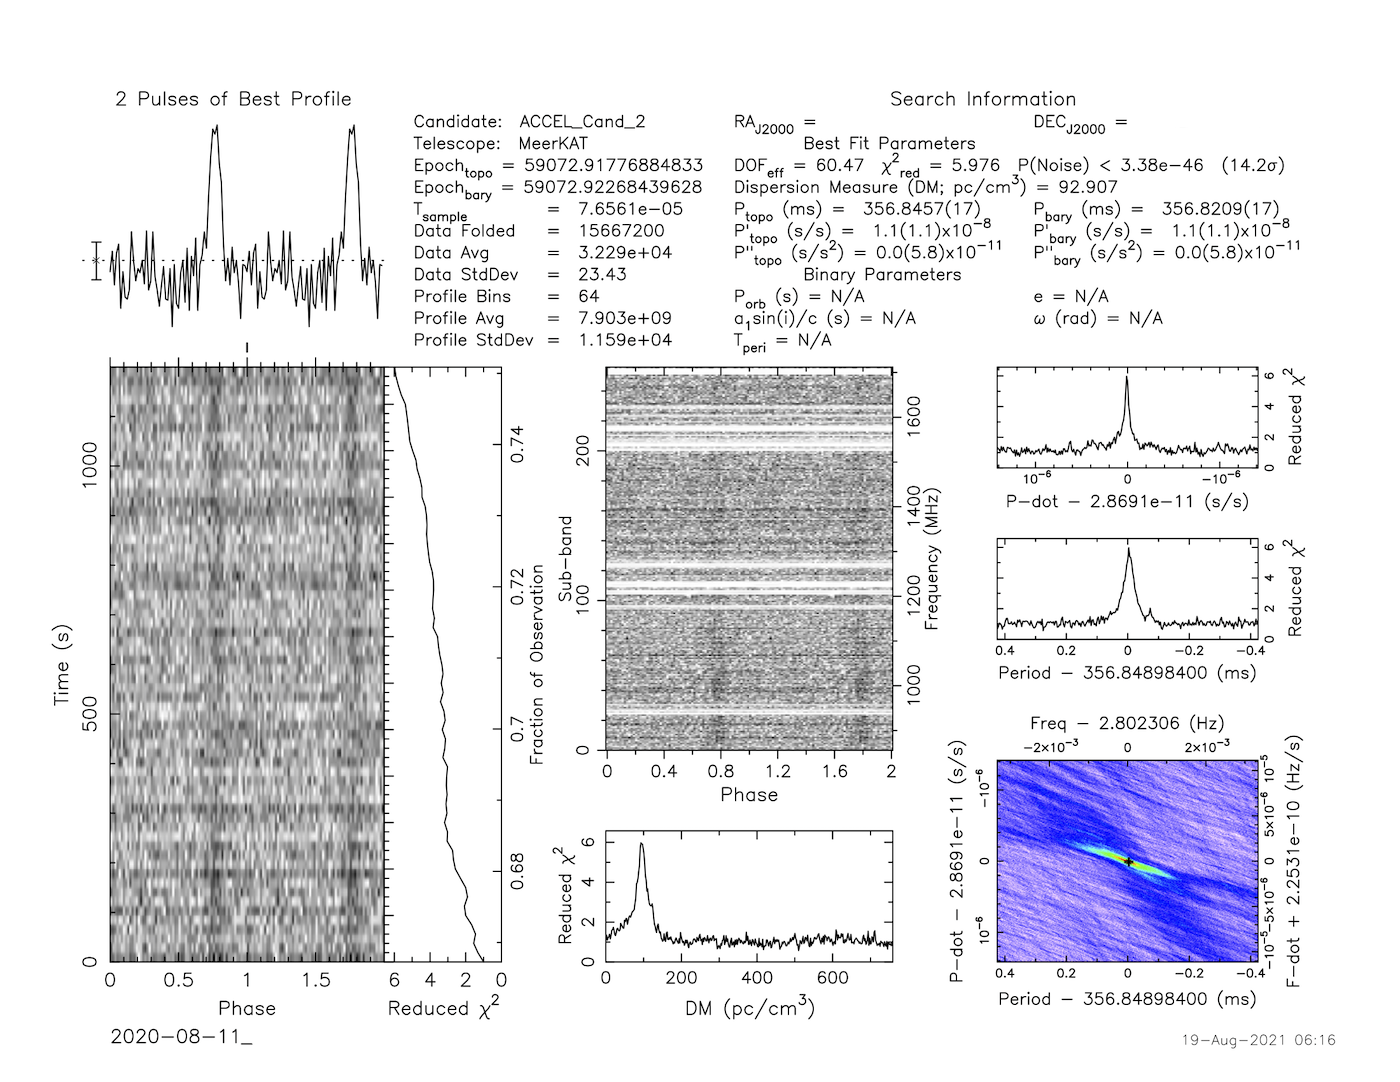
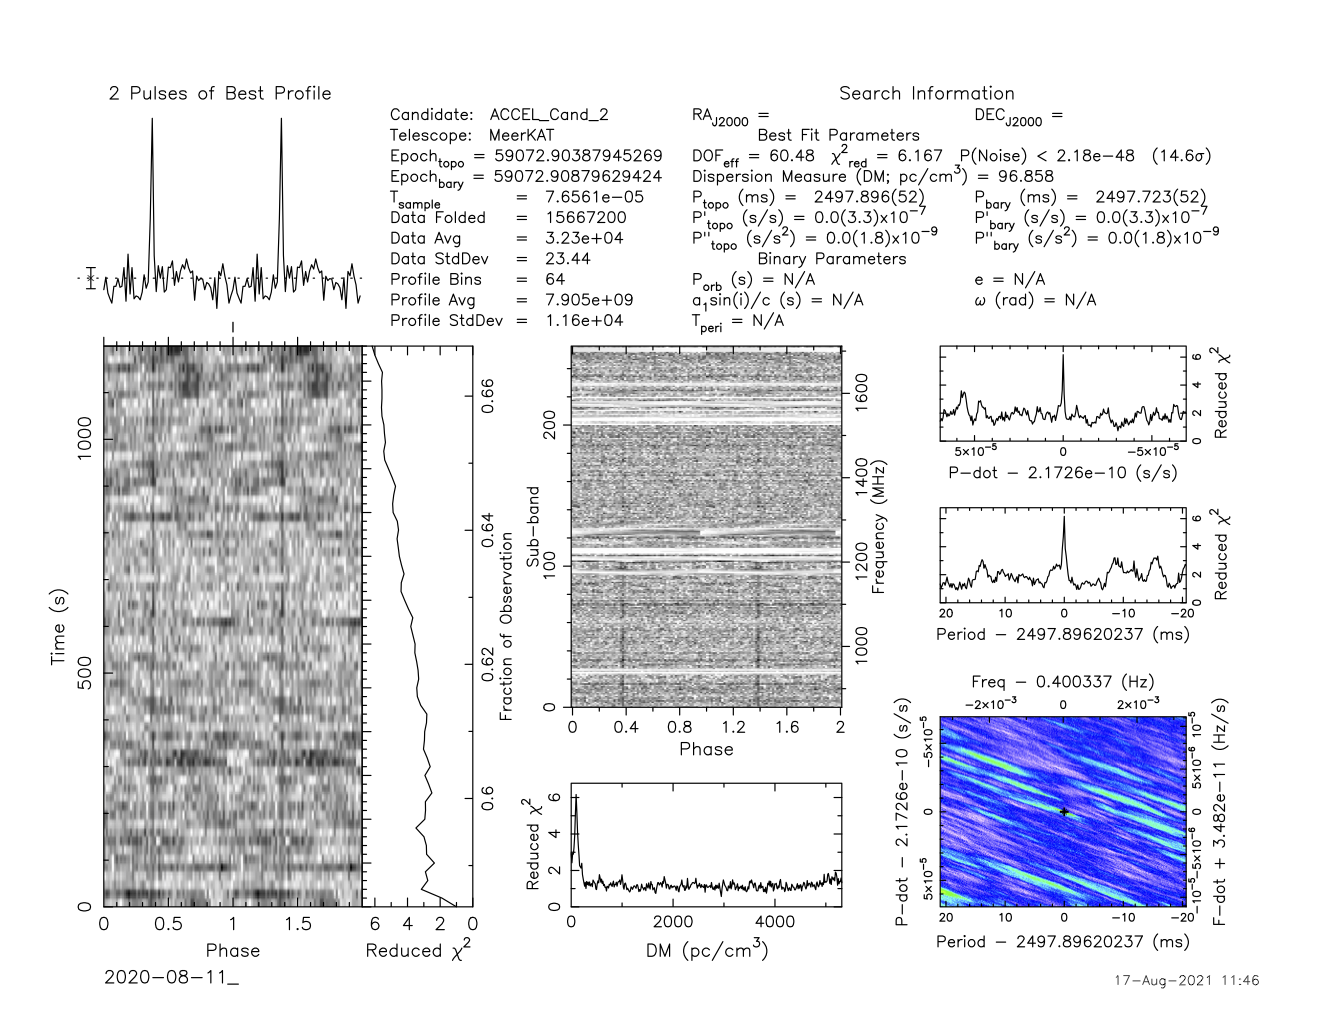
Updated period and discovery plot for NGC6624K.

diff --git a/discoveries.html b/discoveries.html
@@ -1118,8 +1118,8 @@ td {
 <!-- discovery number --> <td style="text-align: center"> 60</td>
 <!-- pulsar name      --> <td style="text-align: center; font-weight: bold"> J1823-3021K</td>
 <!-- association      --> <td style="text-align: center"> GC:  NGC 6624</td>
-<!-- spin period (ms) --> <td style="text-align: center"> 356.82 </td>
-<!-- DM (pc cm-3)     --> <td style="text-align: center"> 96.91 </td>
+<!-- spin period (ms) --> <td style="text-align: center"> 2497.72 </td>
+<!-- DM (pc cm-3)     --> <td style="text-align: center"> 96.9 </td>
 <!-- type             --> <td style="text-align: center"> Isolated </td>
 <!-- date of disc.    --> <td style="text-align: center"> 24-08-2021 </td>
 <!-- disc. obs/date   --> <td style="text-align: center"> TRAPUM / 11-08-2020 </td>
